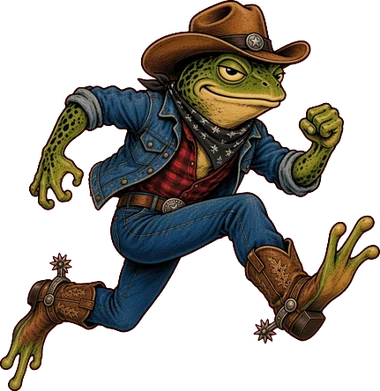
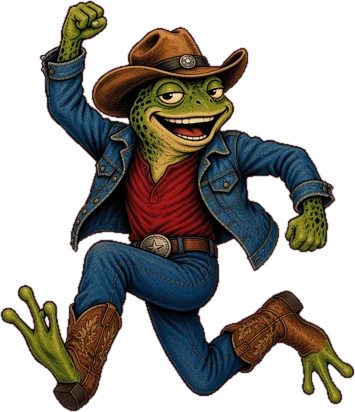
Frogville: all frogs redrawn in jukebox-dancer style (racers, leaper, banjo picker)

diff --git a/frogville/index.html b/frogville/index.html
@@ -52,7 +52,7 @@
           <p>Road-worn pickers, fast fiddles and boots stomping on old boards. Bluegrass, played loud.</p>
         </div>
         <div class="art stage-art" data-speed="-0.08">
-          <button type="button" class="hot hot-stage" data-open="lineup" aria-haspopup="dialog"><img src="art/stage.webp" alt="" class="sway"><span class="hot-hint">See the lineup</span><span class="sr-only">Open the Frogville stage lineup</span></button>
+          <button type="button" class="hot hot-stage" data-open="lineup" aria-haspopup="dialog"><img src="art/stage.webp?v=c2" alt="" class="sway"><span class="hot-hint">See the lineup</span><span class="sr-only">Open the Frogville stage lineup</span></button>
           <span aria-hidden="true" class="note n1">&#9834;</span><span class="note n2">&#9835;</span><span class="note n3">&#9834;</span><span class="note n4">&#9835;</span>
         </div>
       </section>
@@ -76,12 +76,12 @@
           <p>Frog races, lily pad hops and side bets. Loser buys the next round.</p>
         </div>
         <div class="art games-art" data-speed="-0.08" aria-hidden="true">
-          <img src="art/games.webp?v=c1" alt="" class="race">
+          <img src="art/games.webp?v=c2" alt="" class="race">
         </div>
       </section>
 
       <section class="panel cta" id="tickets">
-        <img class="cta-frog" src="art/frog-hop.webp?v=c1" alt="" aria-hidden="true">
+        <img class="cta-frog" src="art/frog-hop.webp?v=c2" alt="" aria-hidden="true">
         <h2>Frogville is calling</h2>
         <a class="big-cta" href="mailto:howdy@rowdyhop.com?subject=Rowdyland%20tickets">Get your tickets now!</a>
         <p class="fine">Ticket sales open soon. Send us a howdy and we'll save you a spot on the list.</p>
